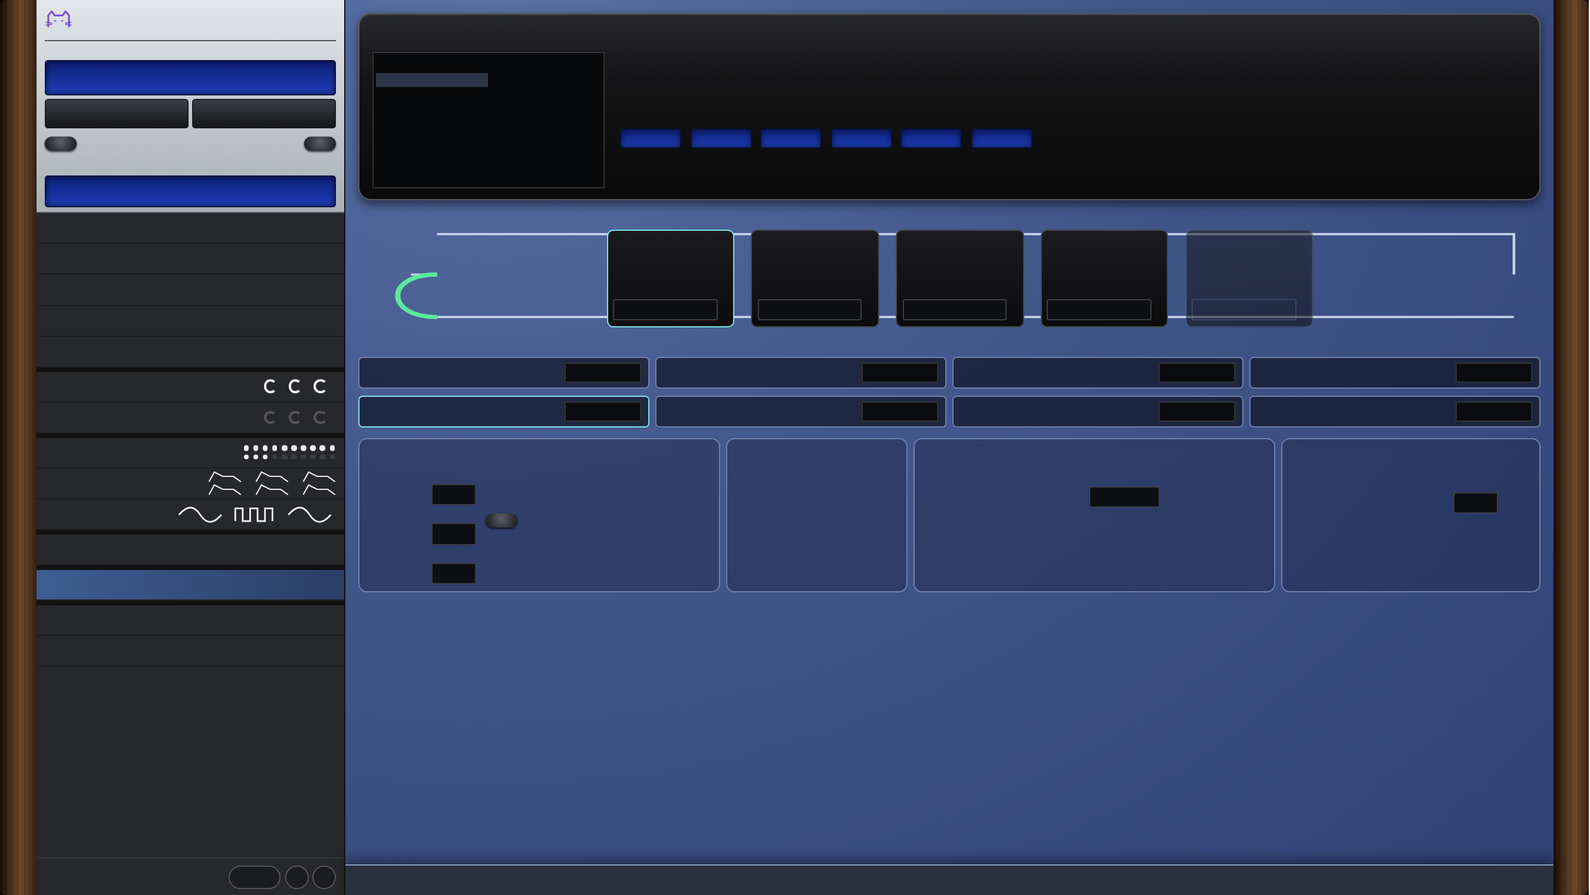
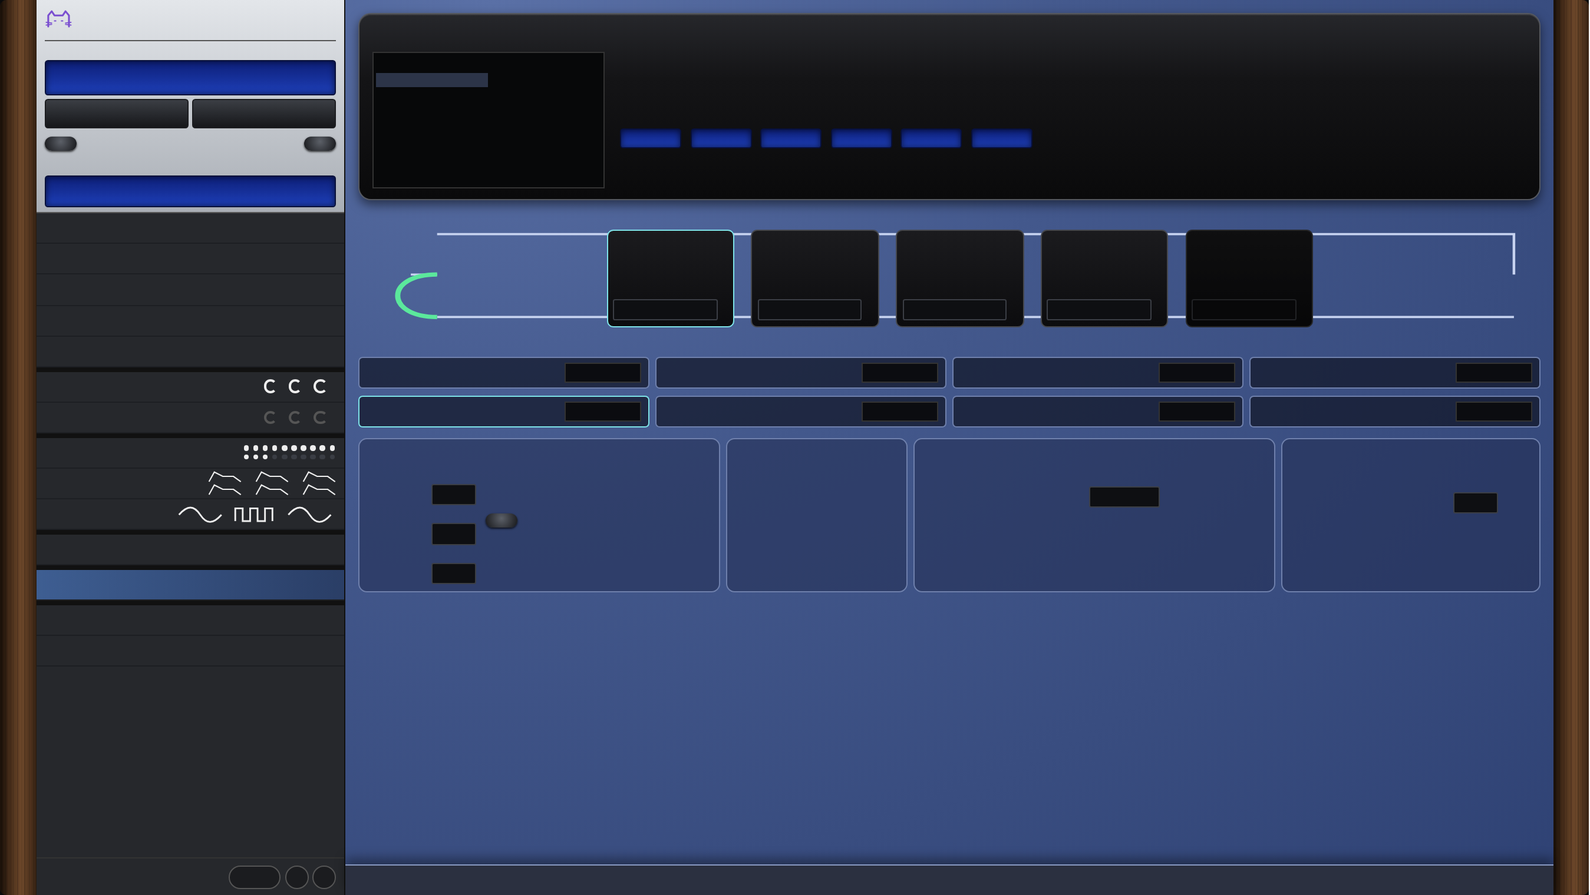
FX mockup: opaque dimmed Slot 5, fit wide pages; Mod page live LFO window and envelope
Claude-Session: https://claude.ai/code/session_019TnJtziw9TzxJpcD67FRDR

Changed region(s): [[0.7472, 0.2474, 0.8406, 0.3711]]

diff --git a/docs/mockups/UNova_FX.dc.html b/docs/mockups/UNova_FX.dc.html
@@ -71,7 +71,7 @@ a{color:#E6E8EC}a:hover{color:#FFFFFF}
 <svg width="42" height="42" viewBox="0 0 42 42" style="position: absolute; inset: 0"><circle cx="7.3" cy="32.7" r="1.1" fill="#AEB6C4"></circle><circle cx="2.9" cy="25.6" r="1.1" fill="#AEB6C4"></circle><circle cx="2.2" cy="17.2" r="1.1" fill="#AEB6C4"></circle><circle cx="5.4" cy="9.4" r="1.1" fill="#AEB6C4"></circle><circle cx="11.8" cy="4.0" r="1.1" fill="#AEB6C4"></circle><circle cx="20.0" cy="2.0" r="1.1" fill="#AEB6C4"></circle><circle cx="28.2" cy="4.0" r="1.1" fill="#AEB6C4"></circle><circle cx="34.6" cy="9.4" r="1.1" fill="#AEB6C4"></circle><circle cx="37.8" cy="17.2" r="1.1" fill="#AEB6C4"></circle><circle cx="37.1" cy="25.6" r="1.1" fill="#AEB6C4"></circle><circle cx="32.7" cy="32.7" r="1.1" fill="#AEB6C4"></circle><path d="M9.0,33.0 A17.0,17.0 0 0 1 15.2,5.0" fill="none" stroke="#7EE3E8" stroke-width="2" stroke-linecap="round" opacity="0.9"></path></svg>
 <div style="position: absolute; left: 7px; top: 7px; width: 28px; height: 28px; border-radius: 50%; box-shadow: 0 2px 4px rgba(0,0,0,0.75), 0 0 0 1px #060607; background: repeating-conic-gradient(from 0deg, #8E949C 0deg 4deg, #C7CCD3 4deg 8deg)"></div>
 <div style="position: absolute; left: 10.4px; top: 10.4px; width: 21.3px; height: 21.3px; border-radius: 50%; background: radial-gradient(circle at 35% 28%, #FFFFFF 0%, #E3E6EA 18%, #B9BEC5 46%, #8D939B 75%, #6E747C 100%), repeating-radial-gradient(circle at 50% 50%, rgba(255,255,255,0.06) 0 1px, rgba(0,0,0,0.05) 1px 2px); box-shadow: inset 0 1px 1px rgba(255,255,255,0.8), inset 0 -2px 3px rgba(0,0,0,0.35)"></div>
-<div style="position: absolute; left: 7px; top: 7px; width: 28px; height: 28px; transform: rotate(-20deg)"><div style="position: absolute; left: 50%; top: 3.9px; width: 2px; height: 7.3px; margin-left: -1px; border-radius: 1px; background: #1C1E22; box-shadow: 0 0 1px rgba(255,255,255,0.6)"></div></div></div></div></div><span style="font-size: 9px; color: #A9AFBA">Amount</span><span style="display: inline-flex; align-items: center; justify-content: center; width: 96px; height: 18px; border-radius: 2px; background: #0E0F12; border: 1px solid #3B3E45; color: #DCE3F0; font-size: 10px">Reverb 1</span></div><div style="width: 108px; background: linear-gradient(180deg,#1B1B1E,#0C0C0E); border: 1px solid #45474D; border-radius: 6px; padding: 5px; display: flex; flex-direction: column; gap: 3px; opacity: 0.55"><div style="display: flex; align-items: center; justify-content: space-between"><span style="font-size: 12px; line-height: 1">Slot<br>5</span><div style="display: flex; flex-direction: column; align-items: center; gap: 0; width: 32px"><div aria-hidden="true" style="position: relative; width: 42px; height: 42px; flex: none">
+<div style="position: absolute; left: 7px; top: 7px; width: 28px; height: 28px; transform: rotate(-20deg)"><div style="position: absolute; left: 50%; top: 3.9px; width: 2px; height: 7.3px; margin-left: -1px; border-radius: 1px; background: #1C1E22; box-shadow: 0 0 1px rgba(255,255,255,0.6)"></div></div></div></div></div><span style="font-size: 9px; color: #A9AFBA">Amount</span><span style="display: inline-flex; align-items: center; justify-content: center; width: 96px; height: 18px; border-radius: 2px; background: #0E0F12; border: 1px solid #3B3E45; color: #DCE3F0; font-size: 10px">Reverb 1</span></div><div style="width: 108px; background: linear-gradient(180deg,#1B1B1E,#0C0C0E); border: 1px solid #45474D; border-radius: 6px; padding: 5px; display: flex; flex-direction: column; gap: 3px; filter: brightness(0.55) saturate(0.7)"><div style="display: flex; align-items: center; justify-content: space-between"><span style="font-size: 12px; line-height: 1">Slot<br>5</span><div style="display: flex; flex-direction: column; align-items: center; gap: 0; width: 32px"><div aria-hidden="true" style="position: relative; width: 42px; height: 42px; flex: none">
 <svg width="42" height="42" viewBox="0 0 42 42" style="position: absolute; inset: 0"><circle cx="7.3" cy="32.7" r="1.1" fill="#AEB6C4"></circle><circle cx="2.9" cy="25.6" r="1.1" fill="#AEB6C4"></circle><circle cx="2.2" cy="17.2" r="1.1" fill="#AEB6C4"></circle><circle cx="5.4" cy="9.4" r="1.1" fill="#AEB6C4"></circle><circle cx="11.8" cy="4.0" r="1.1" fill="#AEB6C4"></circle><circle cx="20.0" cy="2.0" r="1.1" fill="#AEB6C4"></circle><circle cx="28.2" cy="4.0" r="1.1" fill="#AEB6C4"></circle><circle cx="34.6" cy="9.4" r="1.1" fill="#AEB6C4"></circle><circle cx="37.8" cy="17.2" r="1.1" fill="#AEB6C4"></circle><circle cx="37.1" cy="25.6" r="1.1" fill="#AEB6C4"></circle><circle cx="32.7" cy="32.7" r="1.1" fill="#AEB6C4"></circle><path d="M9.0,33.0 A17.0,17.0 0 0 1 15.2,5.0" fill="none" stroke="#7EE3E8" stroke-width="2" stroke-linecap="round" opacity="0.9"></path></svg>
 <div style="position: absolute; left: 7px; top: 7px; width: 28px; height: 28px; border-radius: 50%; box-shadow: 0 2px 4px rgba(0,0,0,0.75), 0 0 0 1px #060607; background: repeating-conic-gradient(from 0deg, #8E949C 0deg 4deg, #C7CCD3 4deg 8deg)"></div>
 <div style="position: absolute; left: 10.4px; top: 10.4px; width: 21.3px; height: 21.3px; border-radius: 50%; background: radial-gradient(circle at 35% 28%, #FFFFFF 0%, #E3E6EA 18%, #B9BEC5 46%, #8D939B 75%, #6E747C 100%), repeating-radial-gradient(circle at 50% 50%, rgba(255,255,255,0.06) 0 1px, rgba(0,0,0,0.05) 1px 2px); box-shadow: inset 0 1px 1px rgba(255,255,255,0.8), inset 0 -2px 3px rgba(0,0,0,0.35)"></div>

diff --git a/src/ui/UnovaUi.h b/src/ui/UnovaUi.h
@@ -83,7 +83,7 @@ struct NavSpec { juce::String page; juce::Rectangle<float> rect; };
 struct ButtonSpec { juce::String text, label; juce::Rectangle<float> rect; };
 struct PageData
 {
-    juce::Image art; std::vector<KnobSpec> knobs; std::vector<NavSpec> nav; std::vector<ButtonSpec> buttons; std::vector<TextRun> runs; std::vector<DialSpec> dials; std::vector<IconSpec> icons; std::vector<juce::Rectangle<float>> navBars, faders, bars; juce::Rectangle<float> env; std::vector<FilterDialSpec> filterDials;
+    juce::Image art; std::vector<KnobSpec> knobs; std::vector<NavSpec> nav; std::vector<ButtonSpec> buttons; std::vector<TextRun> runs; std::vector<DialSpec> dials; std::vector<IconSpec> icons; std::vector<juce::Rectangle<float>> navBars, faders, bars; juce::Rectangle<float> env; std::vector<FilterDialSpec> filterDials; std::vector<juce::Rectangle<float>> lfoWins;
     static std::unique_ptr<PageData> load(const juce::String& key)
     {
         auto pd = std::make_unique<PageData>(); auto png = resource(key + ".png"); auto js = resource(key + ".json");
@@ -108,6 +108,7 @@ struct PageData
         list("navBars", pd->navBars); list("faders", pd->faders); list("bars", pd->bars); if (v["env"].isObject()) pd->env = rectOf(v["env"]);
         auto col = [](const juce::String& c) { return juce::Colour::fromString("ff" + c.fromFirstOccurrenceOf("#", false, false)); };
         if (auto* fs = v["filterDials"].getArray()) for (auto& d : *fs) pd->filterDials.push_back({ rectOf(d), col(d["ring"].toString()), col(d["color"].toString()) });
+        list("lfoWins", pd->lfoWins);
         return pd;
     }
 };
@@ -461,6 +462,58 @@ private:
     juce::RangedAudioParameter* param; juce::StringArray options; juce::Font font; juce::Colour col; juce::String title, last;
 };
 
+// LFO waveform names as in the maker's LFO Waveform Table; which controller value picks which name is assumed (value = position in this list).
+inline const juce::StringArray& lfoNames()
+{
+    static const juce::StringArray n { "Sine", "Triangle", "Sawtooth", "Square", "Rand S/H", "Time S/H", "PianoEnv", "Seq 1", "Seq 2", "Seq 3", "Seq 4", "Seq 5", "Seq 6", "Seq 7",
+        "Altern 1", "Altern 2", "Altern 3", "Altern 4", "Altern 5", "Altern 6", "Altern 7", "Altern 8", "Chromat", "Major", "Major 7", "Minor 7", "MinArp 1", "MinArp 2", "Diminish", "DecMinor", "Minor3rd", "Pedal", "4ths", "4ths x12", "1625 Maj", "1625 Min", "2511" };
+    return n;
+}
+// The LFO waveform window. Smooth shapes are drawn as lines, stepped shapes as bars; the stepped patterns are illustrative (the real step values are not in the maker's document).
+class LfoWindow : public juce::Component, public juce::SettableTooltipClient
+{
+public:
+    LfoWindow(juce::RangedAudioParameter* p, juce::Rectangle<float> box) : param(p) { setBounds(box.toNearestInt()); setMouseCursor(juce::MouseCursor::PointingHandCursor); tip(); }
+    void refresh() { if (pget(param) != last) { repaint(); tip(); } }
+    void paint(juce::Graphics& g) override
+    {
+        last = pget(param); const int idx = juce::jlimit(0, lfoNames().size() - 1, juce::roundToInt(last)); const auto b = getLocalBounds().toFloat().reduced(0.5f);
+        g.setColour(juce::Colour(0xff0A1626)); g.fillRoundedRectangle(b, 4); g.setColour(juce::Colour(0xff4E5F86)); g.drawRoundedRectangle(b, 4, 1);
+        const float W = (float) getWidth(), top = 8, bot = (float) getHeight() - 16, mid = (top + bot) / 2, amp = (bot - top) / 2;
+        if (idx <= 3 || idx == 6)
+        {
+            juce::Path p; for (int i = 0; i <= 96; ++i)
+            {
+                const float t = (float) i / 96.0f * 2.0f, f = t - std::floor(t); float v;
+                if (idx == 0) v = std::sin(juce::MathConstants<float>::twoPi * f); else if (idx == 1) v = f < 0.5f ? 4 * f - 1 : 3 - 4 * f; else if (idx == 2) v = 2 * f - 1; else if (idx == 3) v = f < 0.5f ? 1.0f : -1.0f; else v = 2 * std::exp(-4.0f * f) - 1;
+                const float x = 10 + t / 2.0f * (W - 20), y = mid - v * amp; if (i) p.lineTo(x, y); else p.startNewSubPath(x, y);
+            }
+            g.setColour(juce::Colour(0xff7EE3E8)); g.strokePath(p, juce::PathStrokeType(2.0f));
+        }
+        else
+        {
+            float x = (float) (idx * 37 + 11); auto rnd = [&x] { x = std::fmod(x * 9301.0f + 49297.0f, 233280.0f); return x / 233280.0f; };
+            const int n = idx >= 14 && idx < 22 ? 8 : 8; const float bw = (W - 20) / (float) n; g.setColour(juce::Colour(0xffE6E8EC));
+            for (int i = 0; i < n; ++i)
+            {
+                float v = rnd(); if (idx >= 14 && idx < 22) v = (i % 2 == 0) ? 0.85f : 0.2f + 0.15f * (float) ((idx + i) % 3); else if (idx >= 22) v = 0.2f + 0.8f * (float) ((i * (idx % 5 + 2) + idx) % 7) / 6.0f;
+                const float h = v * (bot - top); g.fillRect(10 + (float) i * bw + 1, bot - h, bw - 2, h);
+            }
+        }
+        g.setColour(juce::Colour(0xff99AAAA)); g.setFont(makeFont(400, false, 7.0f)); g.drawText(lfoNames()[idx], getLocalBounds().withTrimmedTop(getHeight() - 14), juce::Justification::centred);
+    }
+    void mouseDown(const juce::MouseEvent&) override
+    {
+        if (!param) return; juce::PopupMenu m; const int cur = juce::roundToInt(pget(param));
+        for (int i = 0; i < lfoNames().size(); ++i) m.addItem(i + 1, lfoNames()[i], true, i == cur);
+        m.showMenuAsync(juce::PopupMenu::Options().withTargetComponent(this), [this, safe = juce::Component::SafePointer<LfoWindow>(this)](int r)
+            { if (safe != nullptr && r > 0 && param) { param->beginChangeGesture(); pset(param, (float) (r - 1)); param->endChangeGesture(); repaint(); } });
+    }
+private:
+    void tip() { setTooltip(juce::String("LFO waveform: ") + lfoNames()[juce::jlimit(0, lfoNames().size() - 1, juce::roundToInt(pget(param)))] + " (click to choose; list order assumed, stepped patterns illustrative)"); }
+    juce::RangedAudioParameter* param; float last = -1;
+};
+
 // A knob wired to one parameter (or disabled at the mockup's resting angle when there is none).
 class Knob : public juce::Slider
 {
@@ -490,11 +543,11 @@ class Content : public juce::Component, private juce::Timer
 public:
     std::function<void()> onZoom, onInfo, onAll, onReset100;
     Content(juce::AudioProcessor& p) : proc(p) { setSize(kW, kH); setOpaque(true); startTimerHz(20); }
-    ~Content() override { stopTimer(); knobs.clear(); fields.clear(); faders.clear(); bars.clear(); envGraph.reset(); filterDials.clear(); dropdowns.clear(); }
+    ~Content() override { stopTimer(); knobs.clear(); fields.clear(); faders.clear(); bars.clear(); envGraph.reset(); filterDials.clear(); dropdowns.clear(); lfoViews.clear(); }
 
     void showPage(const juce::String& key)
     {
-        knobs.clear(); dials.clear(); fields.clear(); faders.clear(); bars.clear(); envGraph.reset(); filterDials.clear(); dropdowns.clear(); live.clear(); skip.clear(); shown.clear(); picker.reset(); page = key; data = PageData::load(key); const auto& ids = knobMap().at(key);
+        knobs.clear(); dials.clear(); fields.clear(); faders.clear(); bars.clear(); envGraph.reset(); filterDials.clear(); dropdowns.clear(); lfoViews.clear(); live.clear(); skip.clear(); shown.clear(); picker.reset(); page = key; data = PageData::load(key); const auto& ids = knobMap().at(key);
         for (size_t i = 0; i < data->knobs.size(); ++i)
         {
             juce::RangedAudioParameter* prm = nullptr;
@@ -526,14 +579,15 @@ public:
             else if (r.t.endsWith(" Detune") && nc < 3) { if (auto* p = find(cents[nc++])) live[(int) i] = [p] { return Field::text(p, true) + " Detune"; }; }
         }
         static const juce::StringArray drive { "Diode", "Valve", "Clipper", "XOver", "Rectify", "BitsDown", "RateDown" };   // names as in the maker's Distortion list
-        if (key == "filter") { bindMixerAndEnvelope(false); dropdown("Diode", "cc_65", drive, "Filter 1 drive type"); dropdown("XOver", "cc_81", drive, "Filter 2 drive type"); return; }
+        if (key == "mod") { bindMixerAndEnvelope(2); if (!data->lfoWins.empty()) { auto l = std::make_unique<LfoWindow>(find("nrpn_0_70"), data->lfoWins[0]); addAndMakeVisible(*l); lfoViews.push_back(std::move(l)); } return; }
+        if (key == "filter") { bindMixerAndEnvelope(1); dropdown("Diode", "cc_65", drive, "Filter 1 drive type"); dropdown("XOver", "cc_81", drive, "Filter 2 drive type"); return; }
         if (key != "osc") return;
         auto box = [this](int run, const char* id, bool centred) {
             auto* p = find(id); if (!p) return; const auto& r = data->runs[(size_t) run]; skip.insert(run);
             auto f = std::make_unique<Field>(p, centred, r, juce::Rectangle<float>(40, 20).withCentre(r.r.getCentre())); addAndMakeVisible(*f); fields.push_back(std::move(f)); };
         box(78, "cc_26", true); box(79, "cc_28", true); box(104, "cc_37", true); box(105, "cc_40", true); box(130, "cc_48", true); box(131, "cc_50", true);
         box(171, "cc_14", false);
-        bindMixerAndEnvelope(true);
+        bindMixerAndEnvelope(0);
         dropdown("Exponential", "cc_12", { "Linear", "Exponential" }, "Portamento mode"); dropdown("Mono Auto-Glide", "cc_3", { "Mono", "Mono Auto-Glide", "Polyphonic" }, "Polyphony mode");
     }
     void dropdown(const juce::String& boxText, const char* id, juce::StringArray opts, const juce::String& name)
@@ -546,19 +600,21 @@ public:
         }
     }
     // Mixer faders, the six envelope bars and the envelope graph (same layout on the Oscillators page for the amp envelope and on the Filter page for the filter envelope).
-    void bindMixerAndEnvelope(bool amp)
+    void bindMixerAndEnvelope(int page)
     {
+        const bool amp = page == 0, mod = page == 2;
         static const char* mix[6] = { "cc_51", "cc_52", "cc_53", "cc_54", "cc_55", "cc_56" }; static const char* mixName[6] = { "Osc 1 level", "Osc 2 level", "Osc 3 level", "Ring mod 1*3 level", "Ring mod 2*3 level", "Noise level" };
         for (size_t i = 0; i < data->faders.size() && i < 6; ++i) { auto f = std::make_unique<Fader>(find(mix[i]), mixName[i], data->faders[i]); addAndMakeVisible(*f); faders.push_back(std::move(f)); }
         static const char* ampBar[6] = { "cc_115", "cc_116", "cc_112", "cc_113", "cc_109", "cc_110" }; static const char* filBar[6] = { "nrpn_0_11", "nrpn_0_12", "nrpn_0_8", "nrpn_0_9", "nrpn_0_5", "nrpn_0_6" };
+        static const char* modBar[6] = { "nrpn_0_67", "nrpn_0_68", "nrpn_0_64", "nrpn_0_65", "nrpn_0_61", "nrpn_0_62" };
         static const char* bname[6] = { "attack slope", "decay slope", "attack track", "decay track", "sustain rate", "sustain time" };
-        for (size_t i = 0; i < data->bars.size() && i < 6; ++i) { auto b = std::make_unique<Bar>(find(amp ? ampBar[i] : filBar[i]), juce::String(amp ? "Amp env " : "Filter env ") + bname[i], data->bars[i]); addAndMakeVisible(*b); bars.push_back(std::move(b)); }
+        for (size_t i = 0; i < data->bars.size() && i < 6; ++i) { auto b = std::make_unique<Bar>(find(amp ? ampBar[i] : mod ? modBar[i] : filBar[i]), juce::String(amp ? "Amp env " : mod ? "Envelope 6 " : "Filter env ") + bname[i], data->bars[i]); addAndMakeVisible(*b); bars.push_back(std::move(b)); }
         if (!data->env.isEmpty())
         {
-            envGraph = amp ? std::make_unique<EnvGraph>(find("cc_73"), find("cc_75"), find("cc_70"), find("cc_110"), find("cc_72"), data->env) : std::make_unique<EnvGraph>(find("nrpn_0_1"), find("nrpn_0_2"), find("nrpn_0_3"), find("nrpn_0_6"), find("nrpn_0_4"), data->env);
+            envGraph = amp ? std::make_unique<EnvGraph>(find("cc_73"), find("cc_75"), find("cc_70"), find("cc_110"), find("cc_72"), data->env) : mod ? std::make_unique<EnvGraph>(find("nrpn_0_57"), find("nrpn_0_58"), find("nrpn_0_59"), find("nrpn_0_62"), find("nrpn_0_60"), data->env) : std::make_unique<EnvGraph>(find("nrpn_0_1"), find("nrpn_0_2"), find("nrpn_0_3"), find("nrpn_0_6"), find("nrpn_0_4"), data->env);
             addAndMakeVisible(*envGraph);
         }
-        if (!amp)
+        if (page == 1)
         {
             static const char* t[2] = { "cc_68", "cc_82" }; static const char* f[2] = { "cc_74", "cc_83" }; static const char* r[2] = { "cc_71", "cc_85" };
             for (size_t i = 0; i < data->filterDials.size() && i < 2; ++i) { auto d = std::make_unique<FilterDial>(find(t[i]), find(f[i]), find(r[i]), data->filterDials[i].ring, data->filterDials[i].curve, data->filterDials[i].rect, "Filter " + juce::String((int) i + 1)); addAndMakeVisible(*d); filterDials.push_back(std::move(d)); }
@@ -589,7 +645,7 @@ public:
     }
     void timerCallback() override
     {
-        for (auto& f : fields) f->refresh(); for (auto& f : faders) f->refresh(); for (auto& b : bars) b->refresh(); if (envGraph) envGraph->refresh(); for (auto& f : filterDials) f->refresh(); for (auto& d : dropdowns) d->refresh();
+        for (auto& f : fields) f->refresh(); for (auto& f : faders) f->refresh(); for (auto& b : bars) b->refresh(); if (envGraph) envGraph->refresh(); for (auto& f : filterDials) f->refresh(); for (auto& d : dropdowns) d->refresh(); for (auto& l : lfoViews) l->refresh();
         if (data) { auto sg = iconSignature(); if (sg != iconSig) { iconSig = sg; repaint(0, 0, 340, kH); } }
         for (auto& [i, fn] : live) { auto t = fn(); if (shown[i] != t) { shown[i] = t; repaint(data->runs[(size_t) i].r.expanded(8, 4).toNearestInt()); } }
     }
@@ -650,7 +706,7 @@ public:
     }
 private:
     juce::AudioProcessor& proc; KnobLook look; juce::String page; std::unique_ptr<PageData> data; std::vector<std::unique_ptr<Knob>> knobs; std::vector<std::unique_ptr<WaveDial>> dials; std::unique_ptr<WavePicker> picker;
-    std::vector<std::unique_ptr<Field>> fields; std::vector<std::unique_ptr<Fader>> faders; std::vector<std::unique_ptr<Bar>> bars; std::unique_ptr<EnvGraph> envGraph; std::vector<std::unique_ptr<FilterDial>> filterDials; std::vector<std::unique_ptr<Dropdown>> dropdowns; std::map<int, std::function<juce::String()>> live; std::set<int> skip; std::map<int, juce::String> shown; juce::String iconSig;
+    std::vector<std::unique_ptr<Field>> fields; std::vector<std::unique_ptr<Fader>> faders; std::vector<std::unique_ptr<Bar>> bars; std::unique_ptr<EnvGraph> envGraph; std::vector<std::unique_ptr<FilterDial>> filterDials; std::vector<std::unique_ptr<Dropdown>> dropdowns; std::vector<std::unique_ptr<LfoWindow>> lfoViews; std::map<int, std::function<juce::String()>> live; std::set<int> skip; std::map<int, juce::String> shown; juce::String iconSig;
 };
 
 class Editor : public juce::AudioProcessorEditor

diff --git a/tools/export_mockup.py b/tools/export_mockup.py
@@ -48,10 +48,10 @@ TEXTJS = r"""(key) => {
     const txt = n.nodeValue; if (!txt.trim()) continue; const p = n.parentElement;
     if (!p || ['SCRIPT', 'STYLE'].includes(p.tagName) || p.closest('svg') || p.closest('[data-knob]')) continue;
     const cs = getComputedStyle(p); if (cs.visibility === 'hidden' || cs.display === 'none') continue;
-    let op = 1, ang = 0, e = p; while (e && e !== root.parentElement) { const c = getComputedStyle(e); op *= parseFloat(c.opacity);
+    let op = 1, ang = 0, br = 1, e = p; while (e && e !== root.parentElement) { const c = getComputedStyle(e); op *= parseFloat(c.opacity); const bm = /brightness\(([\d.]+)\)/.exec(c.filter || ''); if (bm) br *= parseFloat(bm[1]);
       if (c.transform && c.transform !== 'none') { const m = c.transform.match(/matrix\(([^)]+)\)/); if (m) { const v = m[1].split(',').map(Number); ang += Math.atan2(v[1], v[0]) * 180 / Math.PI; } } e = e.parentElement; }
     const vertical = (cs.writingMode || '').startsWith('vertical'); if (vertical) ang += 90;
-    const col = rgba(cs.color); col[3] *= op; if (col[3] <= 0.01) continue;
+    const col = rgba(cs.color); col[3] *= op; for (let q = 0; q < 3; q++) col[q] = Math.round(col[q] * br); if (col[3] <= 0.01) continue;
     const r = document.createRange(); const lines = []; let cur = null;
     for (let i = 0; i < txt.length; i++) {
       r.setStart(n, i); r.setEnd(n, i + 1); const rc = r.getClientRects()[0]; if (!rc || (rc.width === 0 && rc.height === 0)) continue;
@@ -76,7 +76,7 @@ TEXTJS = r"""(key) => {
     a.querySelectorAll('span[style*="width: 4px"]').forEach(b => { const r = b.getBoundingClientRect(); navBars.push({ x: +(r.left - rb.left).toFixed(1), y: +(r.top - rb.top).toFixed(1), w: +r.width.toFixed(1), h: +r.height.toFixed(1) }); b.style.visibility = 'hidden'; }); });
   // Oscillators page only: the mixer faders, the six envelope bars and the envelope graph become live controls
   const faders = [], bars = []; let env = null;
-  if (key === 'osc' || key === 'filter') {
+  if (key === 'osc' || key === 'filter' || key === 'mod') {
     const R = e => { const r = e.getBoundingClientRect(); return { x: +(r.left - rb.left).toFixed(1), y: +(r.top - rb.top).toFixed(1), w: +r.width.toFixed(1), h: +r.height.toFixed(1) }; };
     root.querySelectorAll('div[style*="width: 8px"][style*="height: 54px"]').forEach(f => { faders.push(R(f)); f.style.visibility = 'hidden'; });
     root.querySelectorAll('div[style*="height: 3px"][style*="background: #2C3B52"]').forEach(f => { bars.push(R(f)); f.style.visibility = 'hidden'; });
@@ -85,7 +85,9 @@ TEXTJS = r"""(key) => {
   // Filter page: the two round filter response windows are drawn by the plugin from type, frequency and resonance
   const filterDials = []; if (key === 'filter') root.querySelectorAll('svg[aria-label^="Filter "]').forEach(sv => { const r = sv.getBoundingClientRect(); const ring = sv.querySelector('circle[stroke]'); const pa = sv.querySelector('path[stroke]');
     filterDials.push({ x: +(r.left - rb.left).toFixed(1), y: +(r.top - rb.top).toFixed(1), w: +r.width.toFixed(1), h: +r.height.toFixed(1), ring: ring ? ring.getAttribute('stroke') : '#56B9E0', color: pa ? pa.getAttribute('stroke') : '#7EE3E8' }); sv.style.visibility = 'hidden'; });
-  return { runs, dials, navIcons, navBars, faders, bars, env, filterDials };
+  // Modulation page: the LFO waveform window is drawn by the plugin from the LFO waveform control
+  const lfoWins = []; if (key === 'mod') root.querySelectorAll('svg[aria-label^="LFO"][role="img"]').forEach(sv => { const r = sv.getBoundingClientRect(); lfoWins.push({ x: +(r.left - rb.left).toFixed(1), y: +(r.top - rb.top).toFixed(1), w: +r.width.toFixed(1), h: +r.height.toFixed(1) }); sv.style.visibility = 'hidden'; });
+  return { runs, dials, navIcons, navBars, faders, bars, env, filterDials, lfoWins };
 }"""
 HIDE_TEXT = "*{color:transparent !important;text-shadow:none !important;-webkit-text-fill-color:transparent !important} svg text{display:none !important}"
 
@@ -95,7 +97,7 @@ with sync_playwright() as p:
         pg.goto("file://%s/docs/mockups/%s.dc.html" % (root, name)); pg.add_style_tag(content=FONTS)
         pg.wait_for_timeout(1500); pg.evaluate("document.fonts.ready"); pg.wait_for_timeout(500)
         info = pg.evaluate(JS, [760, 1348])
-        tx = pg.evaluate(TEXTJS, key); info["runs"] = tx["runs"]; info["dials"] = tx["dials"]; info["navIcons"] = tx["navIcons"]; info["navBars"] = tx["navBars"]; info["faders"] = tx["faders"]; info["bars"] = tx["bars"]; info["env"] = tx["env"]; info["filterDials"] = tx["filterDials"]
+        tx = pg.evaluate(TEXTJS, key); info["runs"] = tx["runs"]; info["dials"] = tx["dials"]; info["navIcons"] = tx["navIcons"]; info["navBars"] = tx["navBars"]; info["faders"] = tx["faders"]; info["bars"] = tx["bars"]; info["env"] = tx["env"]; info["filterDials"] = tx["filterDials"]; info["lfoWins"] = tx["lfoWins"]
         pg.add_style_tag(content=HIDE_TEXT); pg.wait_for_timeout(200)
         el = pg.query_selector("x-dc > :last-child")
         el.screenshot(path=os.path.join(root, "assets/ui/%s.png" % key))
